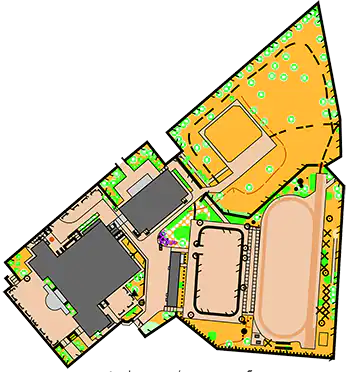
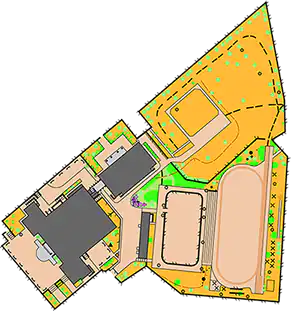
Обновление карты в Малоярославце от Небольсинова Алексея.

Changed region(s): [[0.0, 0.0, 1.0, 1.0]]

diff --git a/js/maps-other.js b/js/maps-other.js
@@ -349,7 +349,7 @@ let otherMaps = [
         year: 2025,
         url: './maps/other/maloyaroslavets_gymnasium_2025.webp',
         link: './original_maps/other/maloyaroslavets_gymnasium_2025_omaps.gif',
-        bounds: [[55.0034534, 36.457926], [55.0031089, 36.4615846], [55.0012751, 36.4572072]],
+        bounds: [[55.0034904, 36.4580655], [55.0030966, 36.4615738], [55.0013182, 36.4572930]],
         author: 'NBLSNV',
         owner: 'NBLSNV',
         region: 'KLGA',
